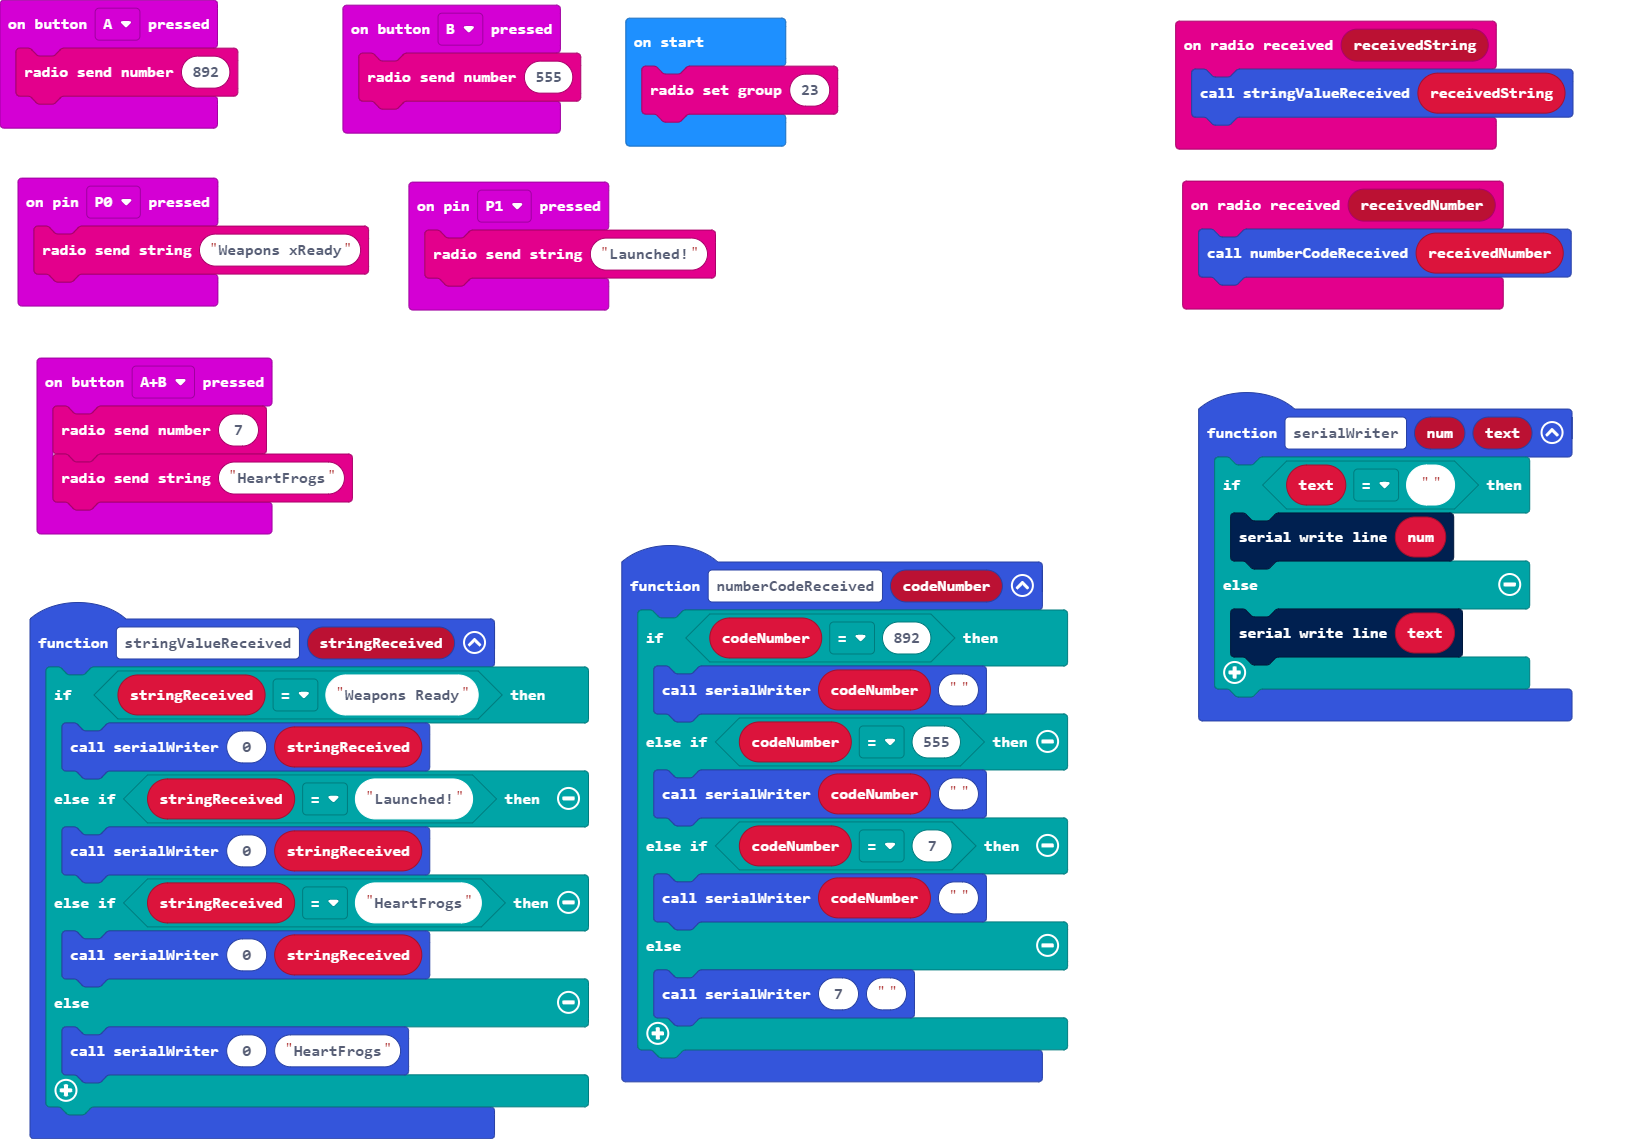
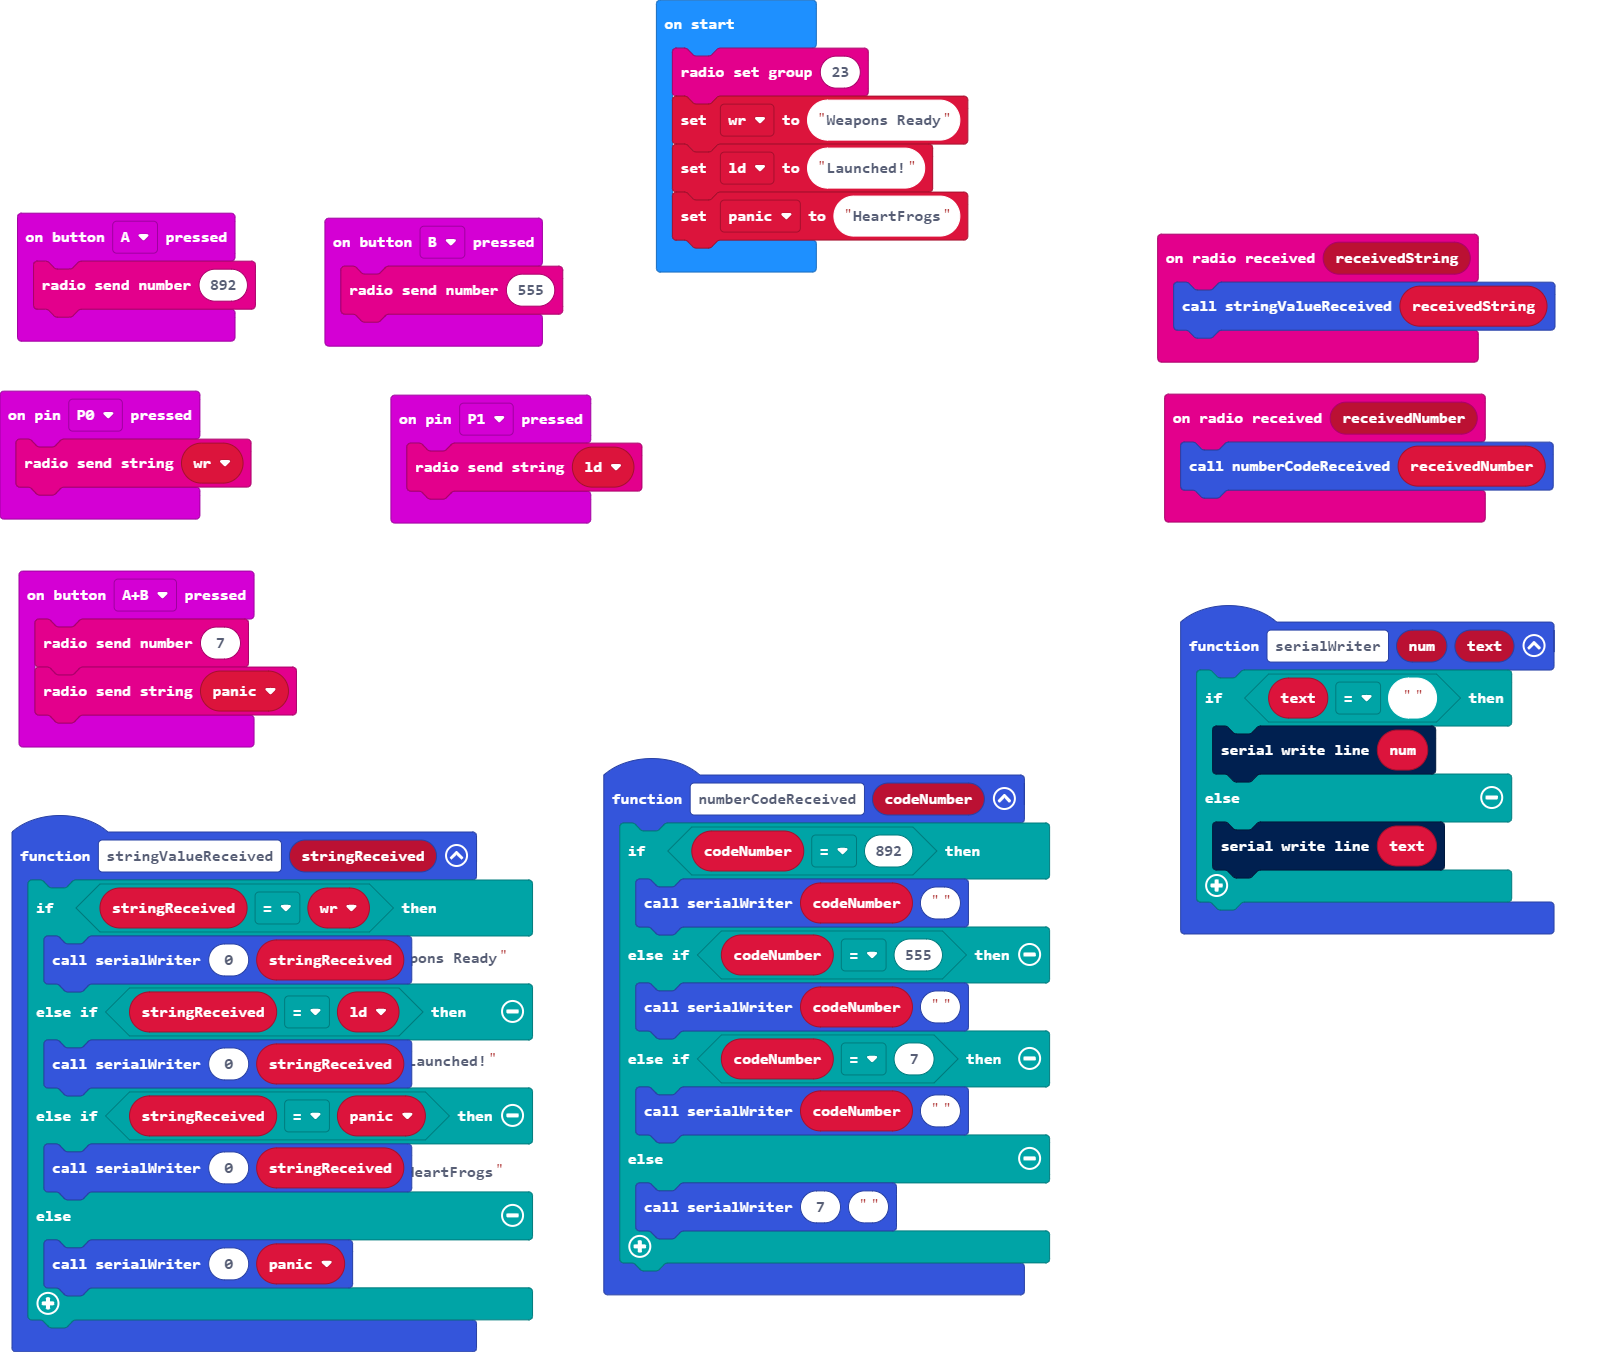
Update main.blocks, main.ts

diff --git a/main.ts b/main.ts
@@ -1,5 +1,5 @@
 input.onPinPressed(TouchPin.P0, function () {
-    radio.sendString("Weapons xReady")
+    radio.sendString("" + (wr))
 })
 radio.onReceivedNumber(function (receivedNumber) {
     numberCodeReceived(receivedNumber)
@@ -19,19 +19,19 @@ input.onButtonPressed(Button.A, function () {
     radio.sendNumber(892)
 })
 function stringValueReceived (stringReceived: string) {
-    if (stringReceived == "Weapons Ready") {
+    if (stringReceived == wr) {
         serialWriter(0, stringReceived)
-    } else if (stringReceived == "Launched!") {
+    } else if (stringReceived == ld) {
         serialWriter(0, stringReceived)
-    } else if (stringReceived == "HeartFrogs") {
+    } else if (stringReceived == panic) {
         serialWriter(0, stringReceived)
     } else {
-        serialWriter(0, "HeartFrogs")
+        serialWriter(0, panic)
     }
 }
 input.onButtonPressed(Button.AB, function () {
     radio.sendNumber(7)
-    radio.sendString("HeartFrogs")
+    radio.sendString("" + (panic))
 })
 radio.onReceivedString(function (receivedString) {
     stringValueReceived(receivedString)
@@ -40,7 +40,7 @@ input.onButtonPressed(Button.B, function () {
     radio.sendNumber(555)
 })
 input.onPinPressed(TouchPin.P1, function () {
-    radio.sendString("Launched!")
+    radio.sendString("" + (ld))
 })
 function serialWriter (num: number, text: string) {
     if (text == "") {
@@ -49,4 +49,10 @@ function serialWriter (num: number, text: string) {
         serial.writeLine(text)
     }
 }
+let panic = ""
+let ld = ""
+let wr = ""
 radio.setGroup(23)
+wr = "Weapons Ready"
+ld = "Launched!"
+panic = "HeartFrogs"
